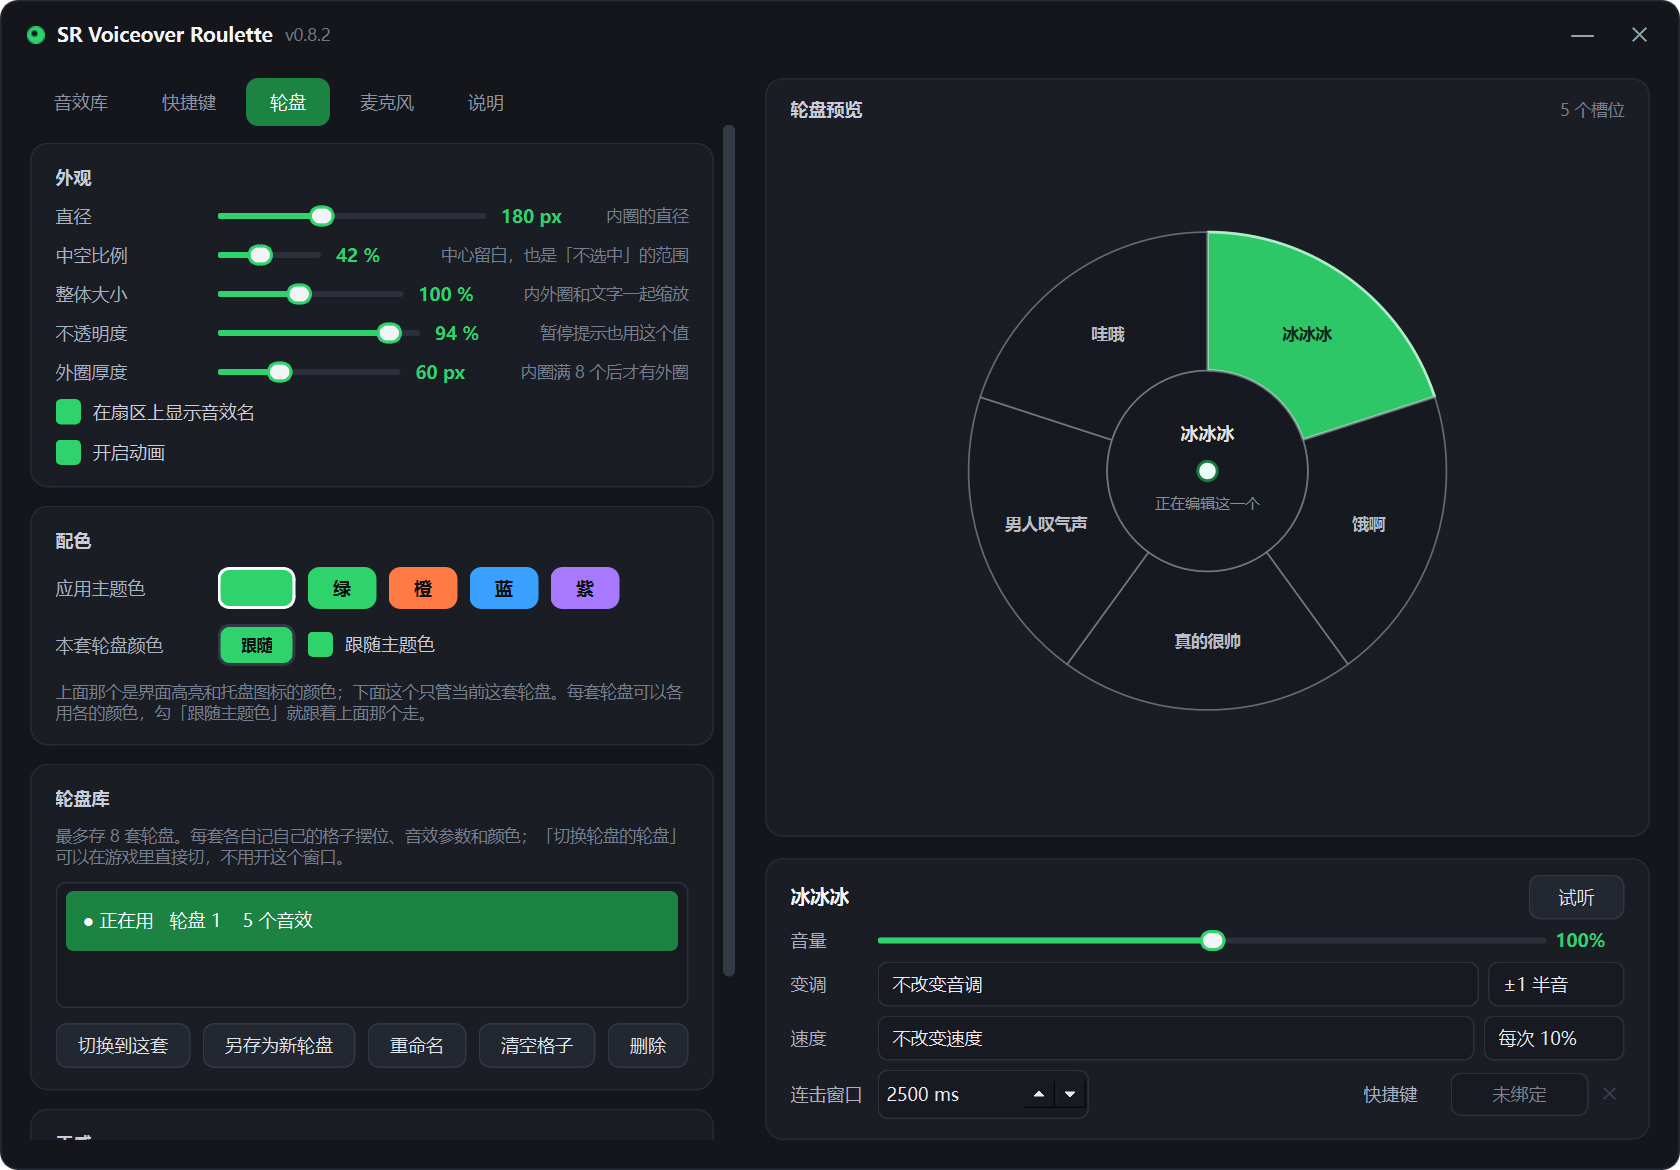
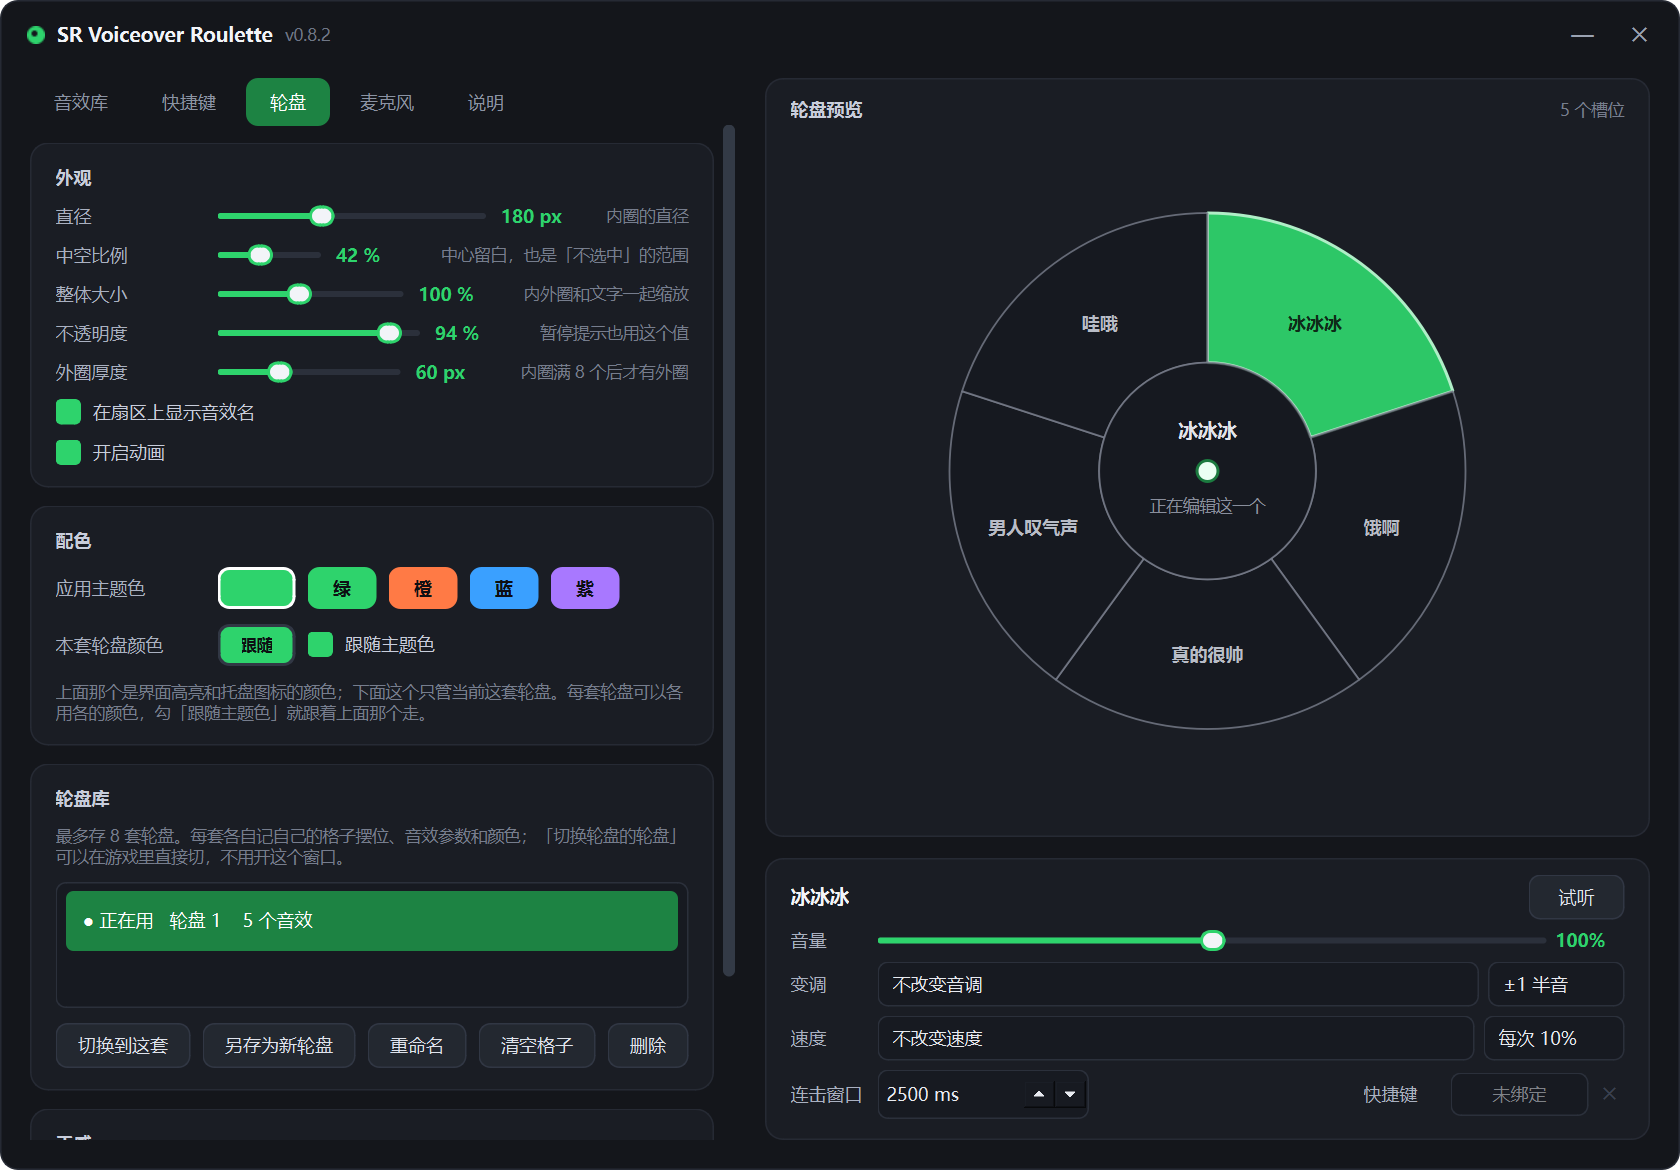
轮盘预览改回原样：固定尺寸、不再跟随「整体大小」
- view_scale() 回到 min(1, room/extent)、边距 14，预览控件恢复 setFixedSize(392)
- paint_scale() 分两路：游戏内 = view_scale × 整体大小；设置窗口的预览只取 view_scale，
  拖「整体大小」时预览保持不动（那里只负责看清样子，实际大小以游戏内为准）
- _on_wheel_changed 不再把 wheel_scale 传给预览
- 说明.txt 与滑块提示补一句「预览固定大小，以游戏内为准」
- docs/wheel.png 按回原样的界面重渲（同步刷新）

diff --git a/settings_window.py b/settings_window.py
@@ -2710,7 +2710,8 @@ class WheelPage(QWidget):
         self.scale.setToolTip(
             "整个轮盘等比放大/缩小：内圈、外圈厚度、扇区上的文字、中心提示\n"
             "会一起变，选中判定的范围也跟着变，不会出现「看着大、选着小」。\n"
-            "100% 是标准大小；屏幕小就用小一点，4K 屏看不清可以调大。"
+            "100% 是标准大小；屏幕小就用小一点，4K 屏看不清可以调大。\n"
+            "右边那个预览是固定大小的，不跟着这一项涨缩，以游戏内的实际效果为准。"
         )
         lay.addWidget(_row("整体大小", self.scale, "内外圈和文字一起缩放"))
         self.opacity = self._slider(int(float(cfg.get("opacity", 0.94)) * 100), 40, 100, " %")
@@ -3927,10 +3928,10 @@ class WheelPreview(sr.WheelWidget):
         return ""
 
     def ring_geometry(self) -> tuple[dict, float]:
-        """当前预览的环布局 + 缩放比（预览适配 × 「整体大小」）。
+        """当前预览的环布局 + 缩放比（只是预览框的适配比例）。
 
-        必须和 _paint_body 用同一个系数：以前这里只取 view_scale()，
-        绘制那边却把「整体大小」也乘了进去，预览里的点选/拖放就会整体偏一圈。
+        必须和 _paint_body 用同一个系数（paint_scale），否则预览里的
+        点选/拖放会整体偏一圈。预览固定按 100% 画，不吃「整体大小」。
         """
         scale = self.paint_scale()
         return sr.ring_layout(self.cfg, self.count(), scale), scale
@@ -4569,17 +4570,14 @@ class SettingsWindow(QWidget):
         self.preview_cfg["wheel_radius"] = 172
         self.preview = WheelPreview(self.preview_cfg, bank)
         side = int(self.preview_cfg["wheel_radius"] * 2 + 48)
-        # 撑满整张卡片，窗口拉大预览也跟着变大；392 只是最小尺寸，
-        # 保证窄窗口下不至于把轮盘压成一团
-        self.preview.setMinimumSize(side, side)
-        self.preview.setSizePolicy(QSizePolicy.Expanding, QSizePolicy.Expanding)
+        self.preview.setFixedSize(side, side)
         self.preview.bank = bank
         self.preview.selected = 0 if len(bank) else None
         self.preview.accent_rgb = (scfg.wheel_color() or None) if scfg is not None else None
         self.preview.lib_dropped.connect(self._on_lib_dropped)
         self.preview.slot_dropped.connect(self._on_slot_dropped)
         self.preview.slot_clicked.connect(self._on_slot_clicked)
-        wh.addWidget(self.preview, 1)
+        wh.addWidget(self.preview, 1, Qt.AlignCenter)
         rl.addWidget(wheel_holder, 1)
 
         self.page_wheel.changed.connect(self._on_wheel_changed)
@@ -4801,13 +4799,16 @@ class SettingsWindow(QWidget):
         self.preview_cfg["opacity"] = cfg["opacity"]
         self.preview_cfg["outer_thickness"] = cfg["outer_thickness"]
         self.preview_cfg["show_names"] = cfg["show_names"]
-        # 「整体大小」原样传下去：预览的 view_scale() 里给 140% 留了余量，
-        # 70%~140% 都能在预览框里真的变大变小，而不是被自适应压回去
-        self.preview_cfg["wheel_scale"] = float(cfg.get("wheel_scale", 1.0) or 1.0)
-        # 预览半径按比例缩放，跟着真实半径走；控件本身是撑满卡片的，不用改尺寸
+        # 「整体大小」不传给预览：预览固定按 100% 的样子画，
+        # 拖那个滑块时只有游戏里的轮盘会变，预览保持稳定不跟着涨缩
+        self.preview_cfg["wheel_scale"] = 1.0
+        # 预览半径按比例缩放，跟着真实半径走但始终放得下
         r = int(float(cfg["wheel_radius"]) * 172.0 / 180.0)
         r = max(90, min(200, r))
-        self.preview_cfg["wheel_radius"] = r
+        if r != int(self.preview_cfg["wheel_radius"]):
+            self.preview_cfg["wheel_radius"] = r
+            side = int(r * 2 + 48)
+            self.preview.setFixedSize(side, side)
         self.preview.update()
         sr.save_config(cfg)
 

diff --git a/sr_roulette.py b/sr_roulette.py
@@ -385,11 +385,6 @@ def wheel_scale_of(cfg: dict) -> float:
     return max(0.5, min(2.0, v))
 
 
-# 设置窗口的预览最多要装得下「整体大小」拉到 140%，所以 100% 的时候
-# 只占预览框的 1/1.4 ≈ 71%，剩下的余量留给滑块往右拖时变大。
-PREVIEW_SCALE_MAX = 1.4
-
-
 def ring_layout(cfg: dict, count: int, scale: float = 1.0) -> dict:
     """算出轮盘每一层的半径范围与格数。
 
@@ -3315,7 +3310,14 @@ class WheelWidget(QWidget):
         return wheel_scale_of(self.cfg)
 
     def paint_scale(self) -> float:
-        """这一帧轮盘所有像素尺寸的总缩放：预览适配 × 用户整体大小。"""
+        """这一帧轮盘所有像素尺寸的总缩放。
+
+        游戏里是「整体大小」那一项；设置窗口的预览不跟它走——
+        预览只负责把样子看清楚，用户拖「整体大小」时它不该跟着涨缩，
+        否则要么把轮盘挤小、要么为了留余量而永远画得偏小。
+        """
+        if getattr(self, "embedded", False):
+            return self.view_scale()
         return self.view_scale() * self.user_scale()
 
     def view_scale(self) -> float:
@@ -3323,20 +3325,15 @@ class WheelWidget(QWidget):
 
         外圈一出现轮盘就变大（内圈尺寸不动），预览区放不下，
         所以按比例缩；游戏里的轮盘永远 1.0，所见即所得。
-
-        预览框有多大就用多大（不设 1.0 上限）：100% 时占满框的
-        1/PREVIEW_SCALE_MAX，刚好给「整体大小」留出拖到 140% 的余量。
-        以前这里既乘 0.74 又夹了 min(1.0, …)，框做大也没用，轮盘永远
-        只有小小一圈。
         """
         if not getattr(self, "embedded", False):
             return 1.0
         count = len(self.bank) if self.bank is not None else 0
         extent = ring_layout(self.cfg, count, 1.0)["extent"]
-        room = min(self.width(), self.height()) / 2.0 - 6.0
+        room = min(self.width(), self.height()) / 2.0 - 14.0
         if extent <= 0 or room <= 0:
             return 1.0
-        return room / (extent * PREVIEW_SCALE_MAX)
+        return min(1.0, room / extent)
 
     def slot_pairs(self, geo: dict) -> list[tuple[int, int]]:
         """[(槽位号, 音效下标)]，按槽位号升序。外圈空着的位置不在里面。
